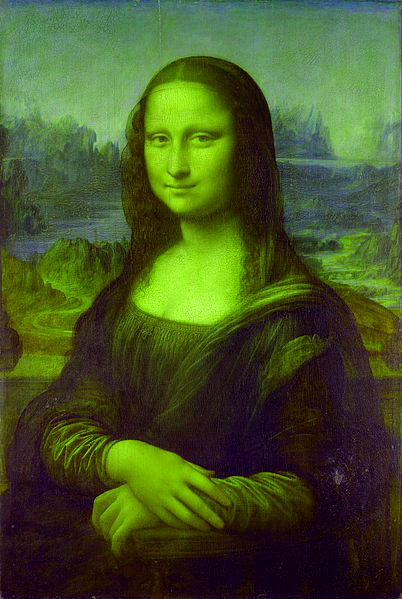
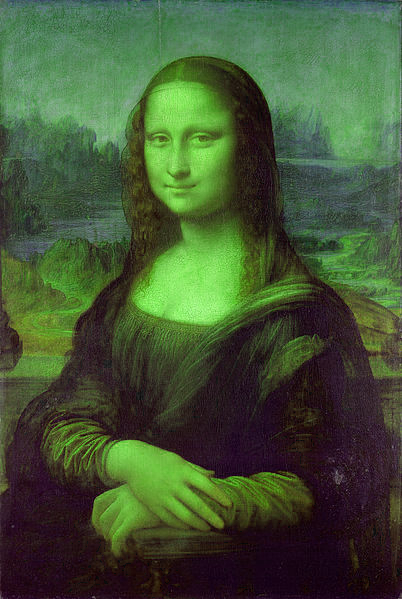
Improved utils, simplified hue

diff --git a/utils/hsla.go b/utils/hsla.go
@@ -1,0 +1,119 @@
+package utils
+
+import (
+	"image/color"
+	"math"
+)
+
+// Converts RGBA color to HSLA,
+//   h is in the range -pi..pi
+//   s                 0..1
+//   l                 0..1
+//   a                 0..1
+//
+// This is not exact, uses formulas from
+// http://www.quasimondo.com/archives/000696.php
+func ToSimplifiedHSLA(c color.Color) (h, s, l, a float64) {
+	r, g, b, a := RatioRGBA(c)
+
+	l  =  r * 0.299 + g * 0.587 + b * 0.114
+	u := -r * 0.1471376975169300226 - g * 0.2888623024830699774 + b * 0.436
+	v :=  r * 0.615 - g * 0.514985734664764622 - b * 0.100014265335235378
+	h  = math.Atan2(v, u)
+	s  = math.Sqrt(u*u + v*v) * math.Sqrt(2)
+
+	return
+}
+
+func ToSimplifiedRGBA(h, s, l, a float64) color.Color {
+	u := math.Cos(h) * s
+	v := math.Sin(h) * s
+	r := l + 1.139837398373983740 * v
+	g := l - 0.3946517043589703515 * u - 0.5805986066674976801 * v
+	b := l + 2.03211091743119266 * u
+
+	r  = Truncatef(r * 255)
+	g  = Truncatef(g * 255)
+	b  = Truncatef(b * 255)
+	a  = a * 255
+
+	return color.RGBA{uint8(r), uint8(g), uint8(b), uint8(a)}
+}
+
+// Returns HSLA representation of given color with:
+//   0 <= h < 360
+//   0 <= l < 1
+//   0 <= s < 1
+//   0 <= a < 1
+//
+// Uses algorithm described on here
+// http://en.wikipedia.org/wiki/HSL_and_HSV#General_approach
+func ToHSLA(c color.Color) (h,s,l,a float64) {
+	r, g, b, a := RatioRGBA(c)
+
+	maxi   := Maxf(r, g, b)
+	mini   := Minf(r, g, b)
+	chroma := maxi - mini
+
+	// Work out hue
+	hdash  := 0.0
+	if chroma == 0 {
+		hdash = 0
+	}else if maxi == r {
+		hdash = math.Mod((g - b) / chroma, 6)
+	} else if maxi == g {
+		hdash = (b - r) / chroma + 2.0
+	} else if maxi == b {
+		hdash = (r - g) / chroma + 4.0
+	}
+
+	hue := hdash * 60
+
+	if chroma == 0 {
+		hue = 0
+	}
+
+	// Work out lightness
+	lightness := 0.5 * (maxi + mini)
+
+	// Work out saturation
+	saturation := 0.0
+	if chroma != 0 {
+		saturation = chroma / (1 - math.Abs(2 * lightness - 1))
+	}
+
+	return hue, saturation, lightness, a
+}
+
+func ToRGBA(h,s,l,a float64) color.Color {
+	c := (1.0 - math.Abs(2.0 * l - 1.0)) * s
+
+	hdash := h / 60.0
+	x := c * (1 - math.Abs(math.Mod(hdash,2) - 1))
+
+	var r, g, b float64
+	if h == 0 {
+		r = 0; g = 0; b = 0
+	} else if hdash < 1 {
+		r = c; g = x; b = 0
+	} else if hdash < 2 {
+		r = x; g = c; b = 0
+	} else if hdash < 3 {
+		r = 0; g = c; b = x
+	} else if hdash < 4 {
+		r = 0; g = x; b = c
+	} else if hdash < 5 {
+		r = x; g = 0; b = c
+	} else if hdash < 6 {
+		r = c; g = 0; b = x
+	}
+
+	m := l - 0.5 * c
+
+	return color.RGBA{
+		uint8(Truncatef((r + m) * 255)),
+		uint8(Truncatef((g + m) * 255)),
+		uint8(Truncatef((b + m) * 255)),
+		uint8(a * 255),
+	}
+}

diff --git a/utils/utils.go b/utils/utils.go
@@ -1,8 +1,8 @@
 package utils
 
 import (
+	"fmt"
 	"os"
-	"math"
 	"image"
 	"image/png"
 	"image/color"
@@ -16,6 +16,10 @@ func ReadStdin() image.Image {
 
 func WriteStdout(img image.Image) {
 	png.Encode(os.Stdout, img)
+}
+
+func Warn(s interface{}) {
+	fmt.Fprintln(os.Stderr, s)
 }
 
 func NormalisedRGBA(c color.Color) (rn, gn, bn, an uint32) {
@@ -41,48 +45,12 @@ func RatioRGBA(c color.Color) (rn, gn, bn, an float64) {
 	return
 }
 
-// Converts RGBA color to HSLA,
-//   h is in the range -pi..pi
-//   s                 0..1
-//   l                 0..1
-//   a                 0..1
-//
-// This is not exact, uses formulas from
-// http://www.quasimondo.com/archives/000696.php
-// will update to proper method later.
-func ToHSLA(c color.Color) (h, s, l, a float64) {
-	r, g, b, a := RatioRGBA(c)
-
-	l  =  r * 0.299 + g * 0.587 + b * 0.114
-	u := -r * 0.1471376975169300226 - g * 0.2888623024830699774 + b * 0.436
-	v :=  r * 0.615 - g * 0.514985734664764622 - b * 0.100014265335235378
-	h  = math.Atan2(v, u)
-	s  = math.Sqrt(u*u + v*v) * math.Sqrt(2)
-
-	return
-}
-
-func ToRGBA(h, s, l, a float64) color.Color {
-	u := math.Cos(h) * s
-	v := math.Sin(h) * s
-	r := l + 1.139837398373983740 * v
-	g := l - 0.3946517043589703515 * u - 0.5805986066674976801 * v
-	b := l + 2.03211091743119266 * u
-
-	r  = TruncateFloat(r * 255)
-	g  = TruncateFloat(g * 255)
-	b  = TruncateFloat(b * 255)
-	a  = a * 255
-
-	return color.RGBA{uint8(r), uint8(g), uint8(b), uint8(a)}
-}
-
-func TruncateInt(n uint32) uint32 {
+func Truncate(n uint32) uint32 {
 	if n < 0 { return 0 } else if n > 255 { return 255 }
 	return n
 }
 
-func TruncateFloat(n float64) float64 {
+func Truncatef(n float64) float64 {
 	if n < 0 { return 0 } else if n > 255 { return 255 }
 	return n
 }
@@ -124,6 +92,18 @@ func Min(ns... uint32) (n uint32) {
 	return
 }
 
+func Minf(ns... float64) (n float64) {
+	if len(ns) > 0 {
+		n = ns[0]
+	}
+	for i := 1; i < len(ns); i++ {
+		if ns[i] < n {
+			n = ns[i]
+		}
+	}
+	return
+}
+
 func Max(ns... uint32) (n uint32) {
 	if len(ns) > 0 {
 		n = ns[0]
@@ -134,4 +114,30 @@ func Max(ns... uint32) (n uint32) {
 		}
 	}
 	return
+}
+
+func Maxf(ns... float64) (n float64) {
+	if len(ns) > 0 {
+		n = ns[0]
+	}
+	for i := 1; i < len(ns); i++ {
+		if ns[i] > n {
+			n = ns[i]
+		}
+	}
+	return
+}
+
+func ChangePixels(img image.Image, f func(c color.Color) color.Color) image.Image {
+	b := img.Bounds()
+	o := image.NewRGBA(image.Rect(0, 0, b.Dx(), b.Dy()))
+
+	for y := b.Min.Y; y < b.Max.Y; y++ {
+		for x := b.Min.X; x < b.Max.X; x++ {
+			result := f(img.At(x, y))
+			o.Set(x, y, result)
+		}
+	}
+
+	return o
 }

diff --git a/hue.go b/hue.go
@@ -3,54 +3,64 @@ package main
 import (
 	"./utils"
 	"image"
+	"image/color"
 	"fmt"
 	"os"
-	"strconv"
+	"flag"
+	"math"
 )
 
-
 func hueShift(img image.Image, amount float64) image.Image {
-	b := img.Bounds()
-	o := image.NewRGBA(image.Rect(0, 0, b.Dx(), b.Dy()))
-
-	for y := b.Min.Y; y < b.Max.Y; y++ {
-		for x := b.Min.X; x < b.Max.X; x++ {
-			h, s, l, a := utils.ToHSLA(img.At(x, y))
-
-			h += amount
-
-			o.Set(x, y, utils.ToRGBA(h, s, l, a))
-		}
+	f := func(c color.Color) color.Color {
+		h,s,l,a := utils.ToHSLA(c)
+		h += amount
+		return utils.ToRGBA(h,s,l,a)
 	}
 
-	return o
+	return utils.ChangePixels(img, f)
+}
+
+func simplifiedHueShift(img image.Image, amount float64) image.Image {
+	f := func(c color.Color) color.Color {
+		h,s,l,a := utils.ToSimplifiedHSLA(c)
+		h += math.Pi * amount
+		return utils.ToSimplifiedRGBA(h,s,l,a)
+	}
+
+	return utils.ChangePixels(img, f)
 }
 
 func printHelp() {
-	msg := "Usage: hue [value]\n" +
+	msg := "Usage: hue [options]\n" +
 		"\n" +
 		"  Takes a png file from STDIN, adjusts the hue by the value given and\n" +
 		"  prints the result to STDOUT.\n" +
 		"\n" +
-		"  --help        # Display this help message\n" +
+		"  --by             # Amount to shift hue by\n" +
+		"  --simplified     # Use simplified colour conversion algorithms\n" +
+		"  --help           # Display this help message\n" +
 		"\n"
 
 	fmt.Fprintf(os.Stderr, msg)
 	os.Exit(0)
 }
 
-func main() {
-	value := float64(1.0)
-	if len(os.Args) > 1 {
-		if os.Args[1] == "--help" {
-			printHelp()
-		}
+var help       = flag.Bool("help", false, "Display this help message")
+var simplified = flag.Bool("simplified", false, "Use simplified colour conversion algorithms")
+var by         = flag.Float64("by", 60.0, "Amount to shift hue by")
 
-		a, _ := strconv.ParseFloat(os.Args[1], 64)
-		value = float64(a)
+func main() {
+	flag.Parse()
+	f := hueShift
+
+	if *help {
+		printHelp()
+	}
+	if *simplified {
+		f = simplifiedHueShift
 	}
 
 	i := utils.ReadStdin()
-	i  = hueShift(i, value)
+	i  = f(i, *by)
 	utils.WriteStdout(i)
 }
